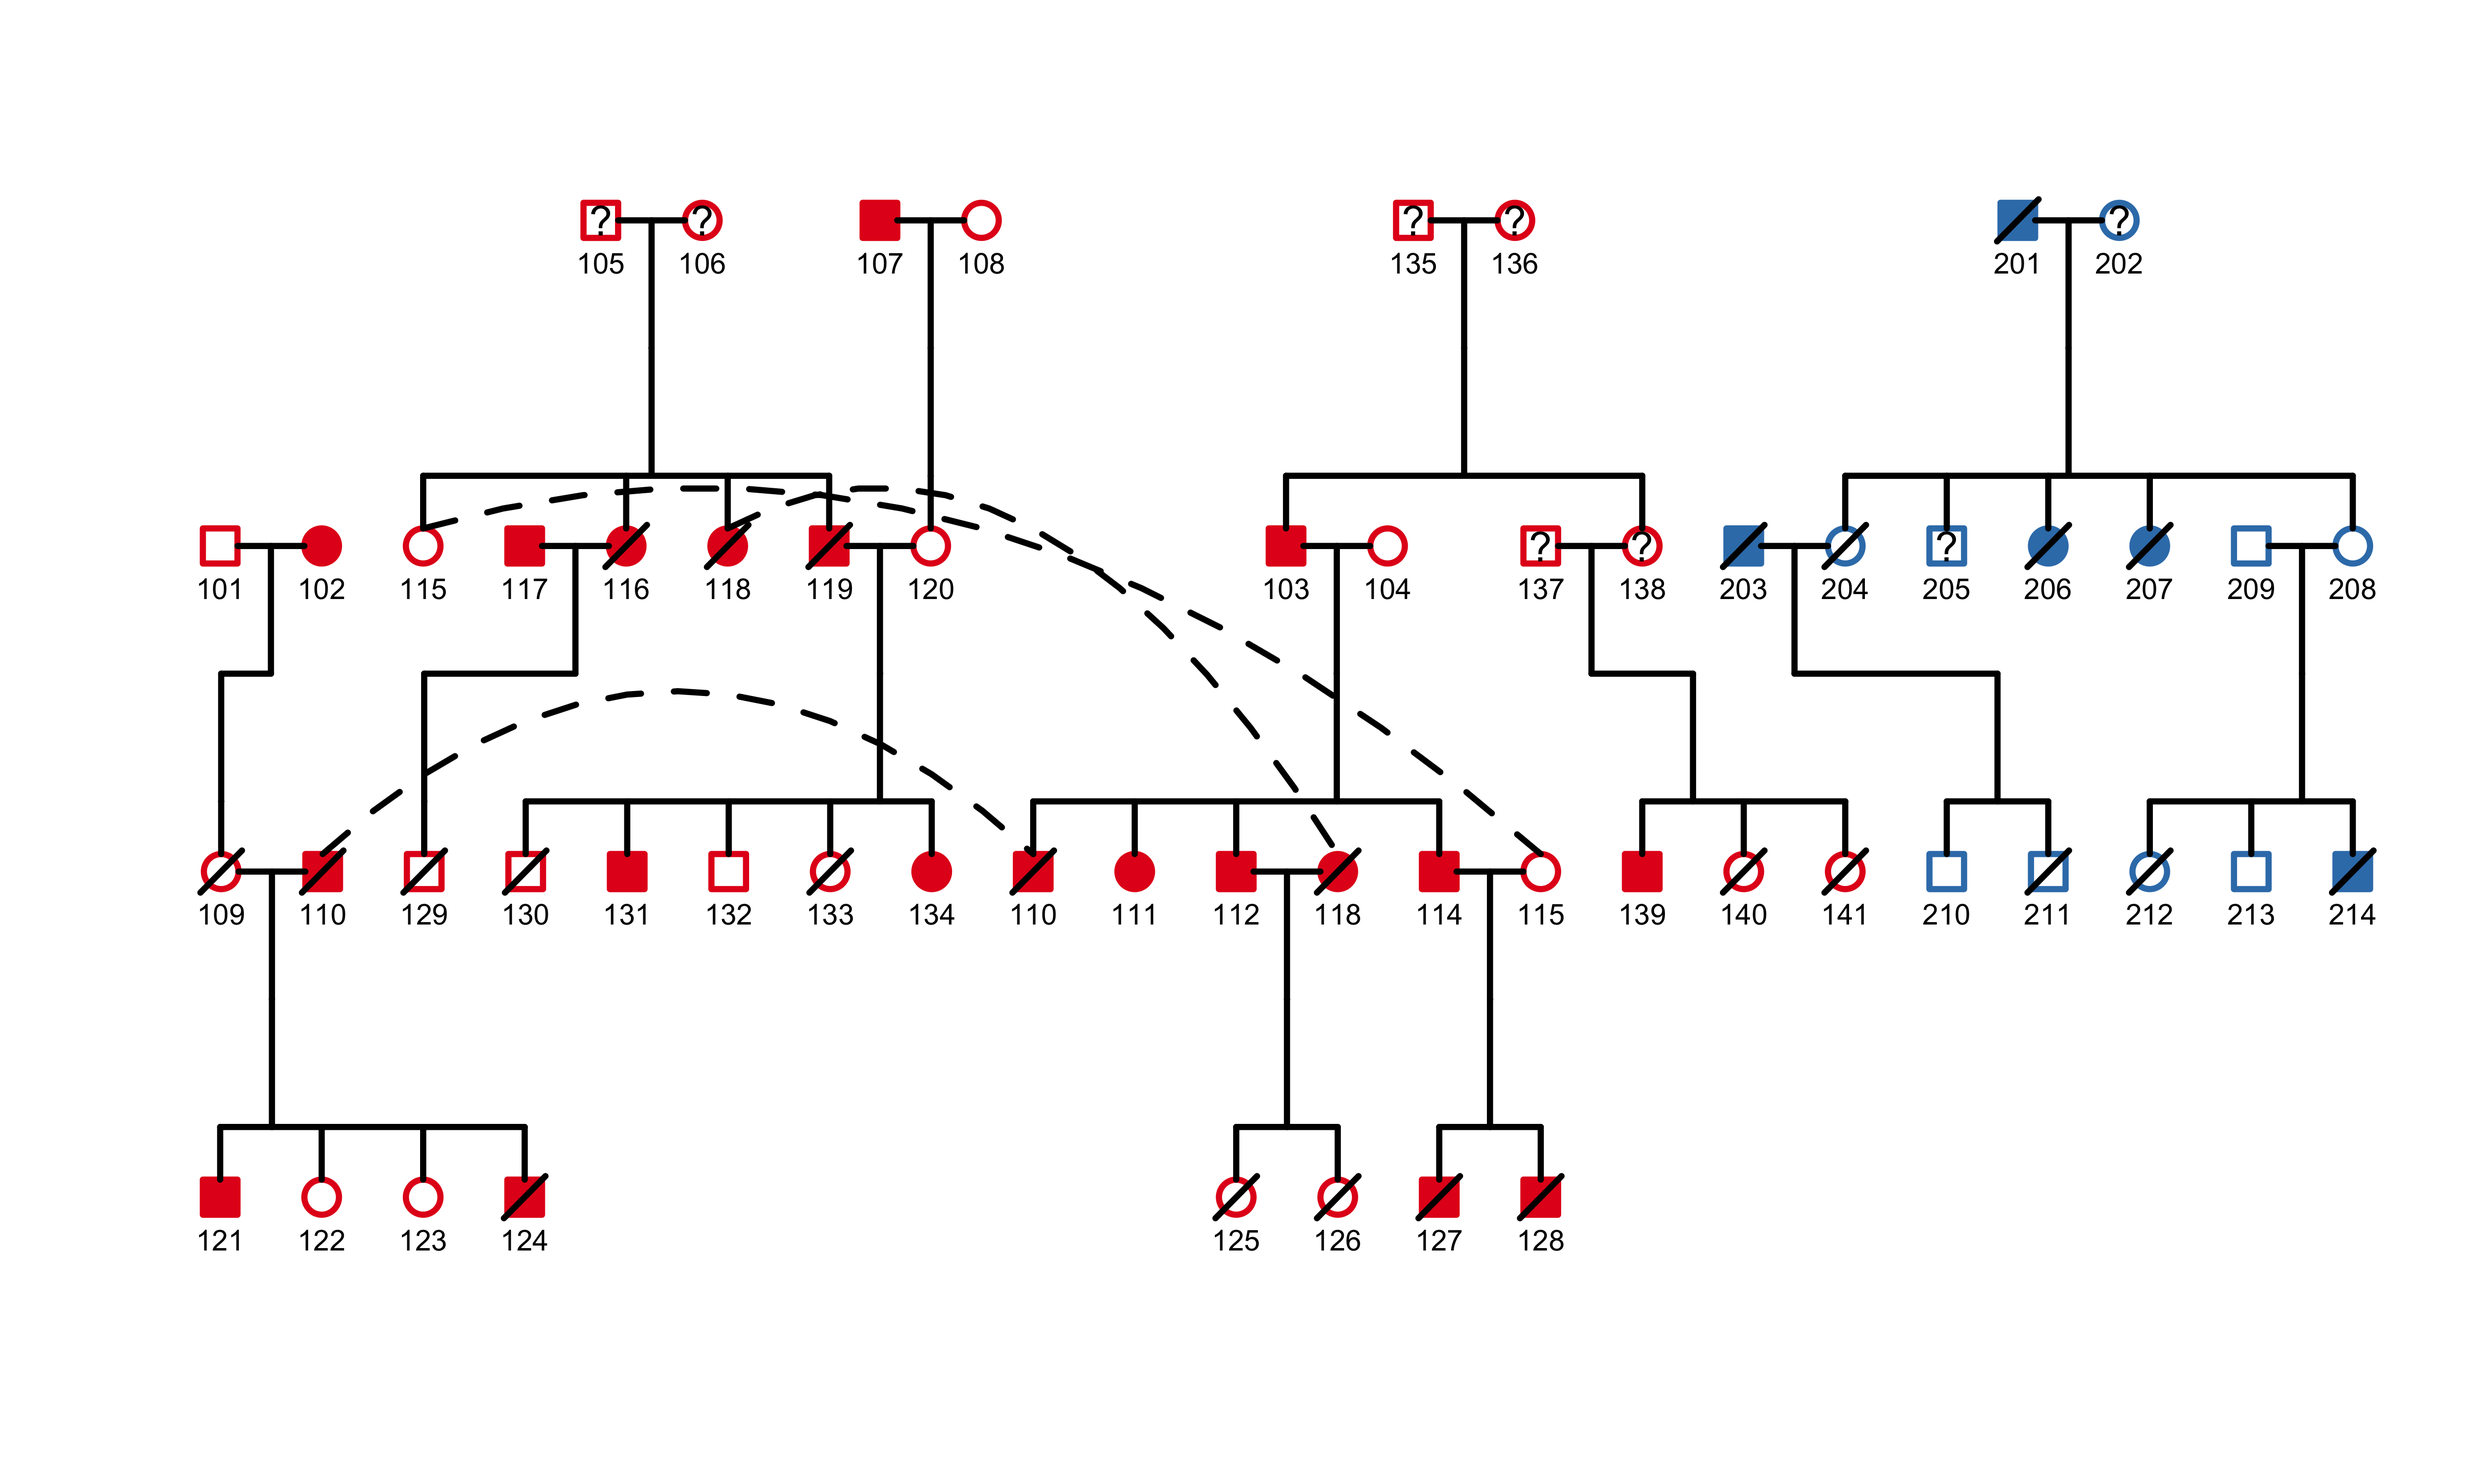
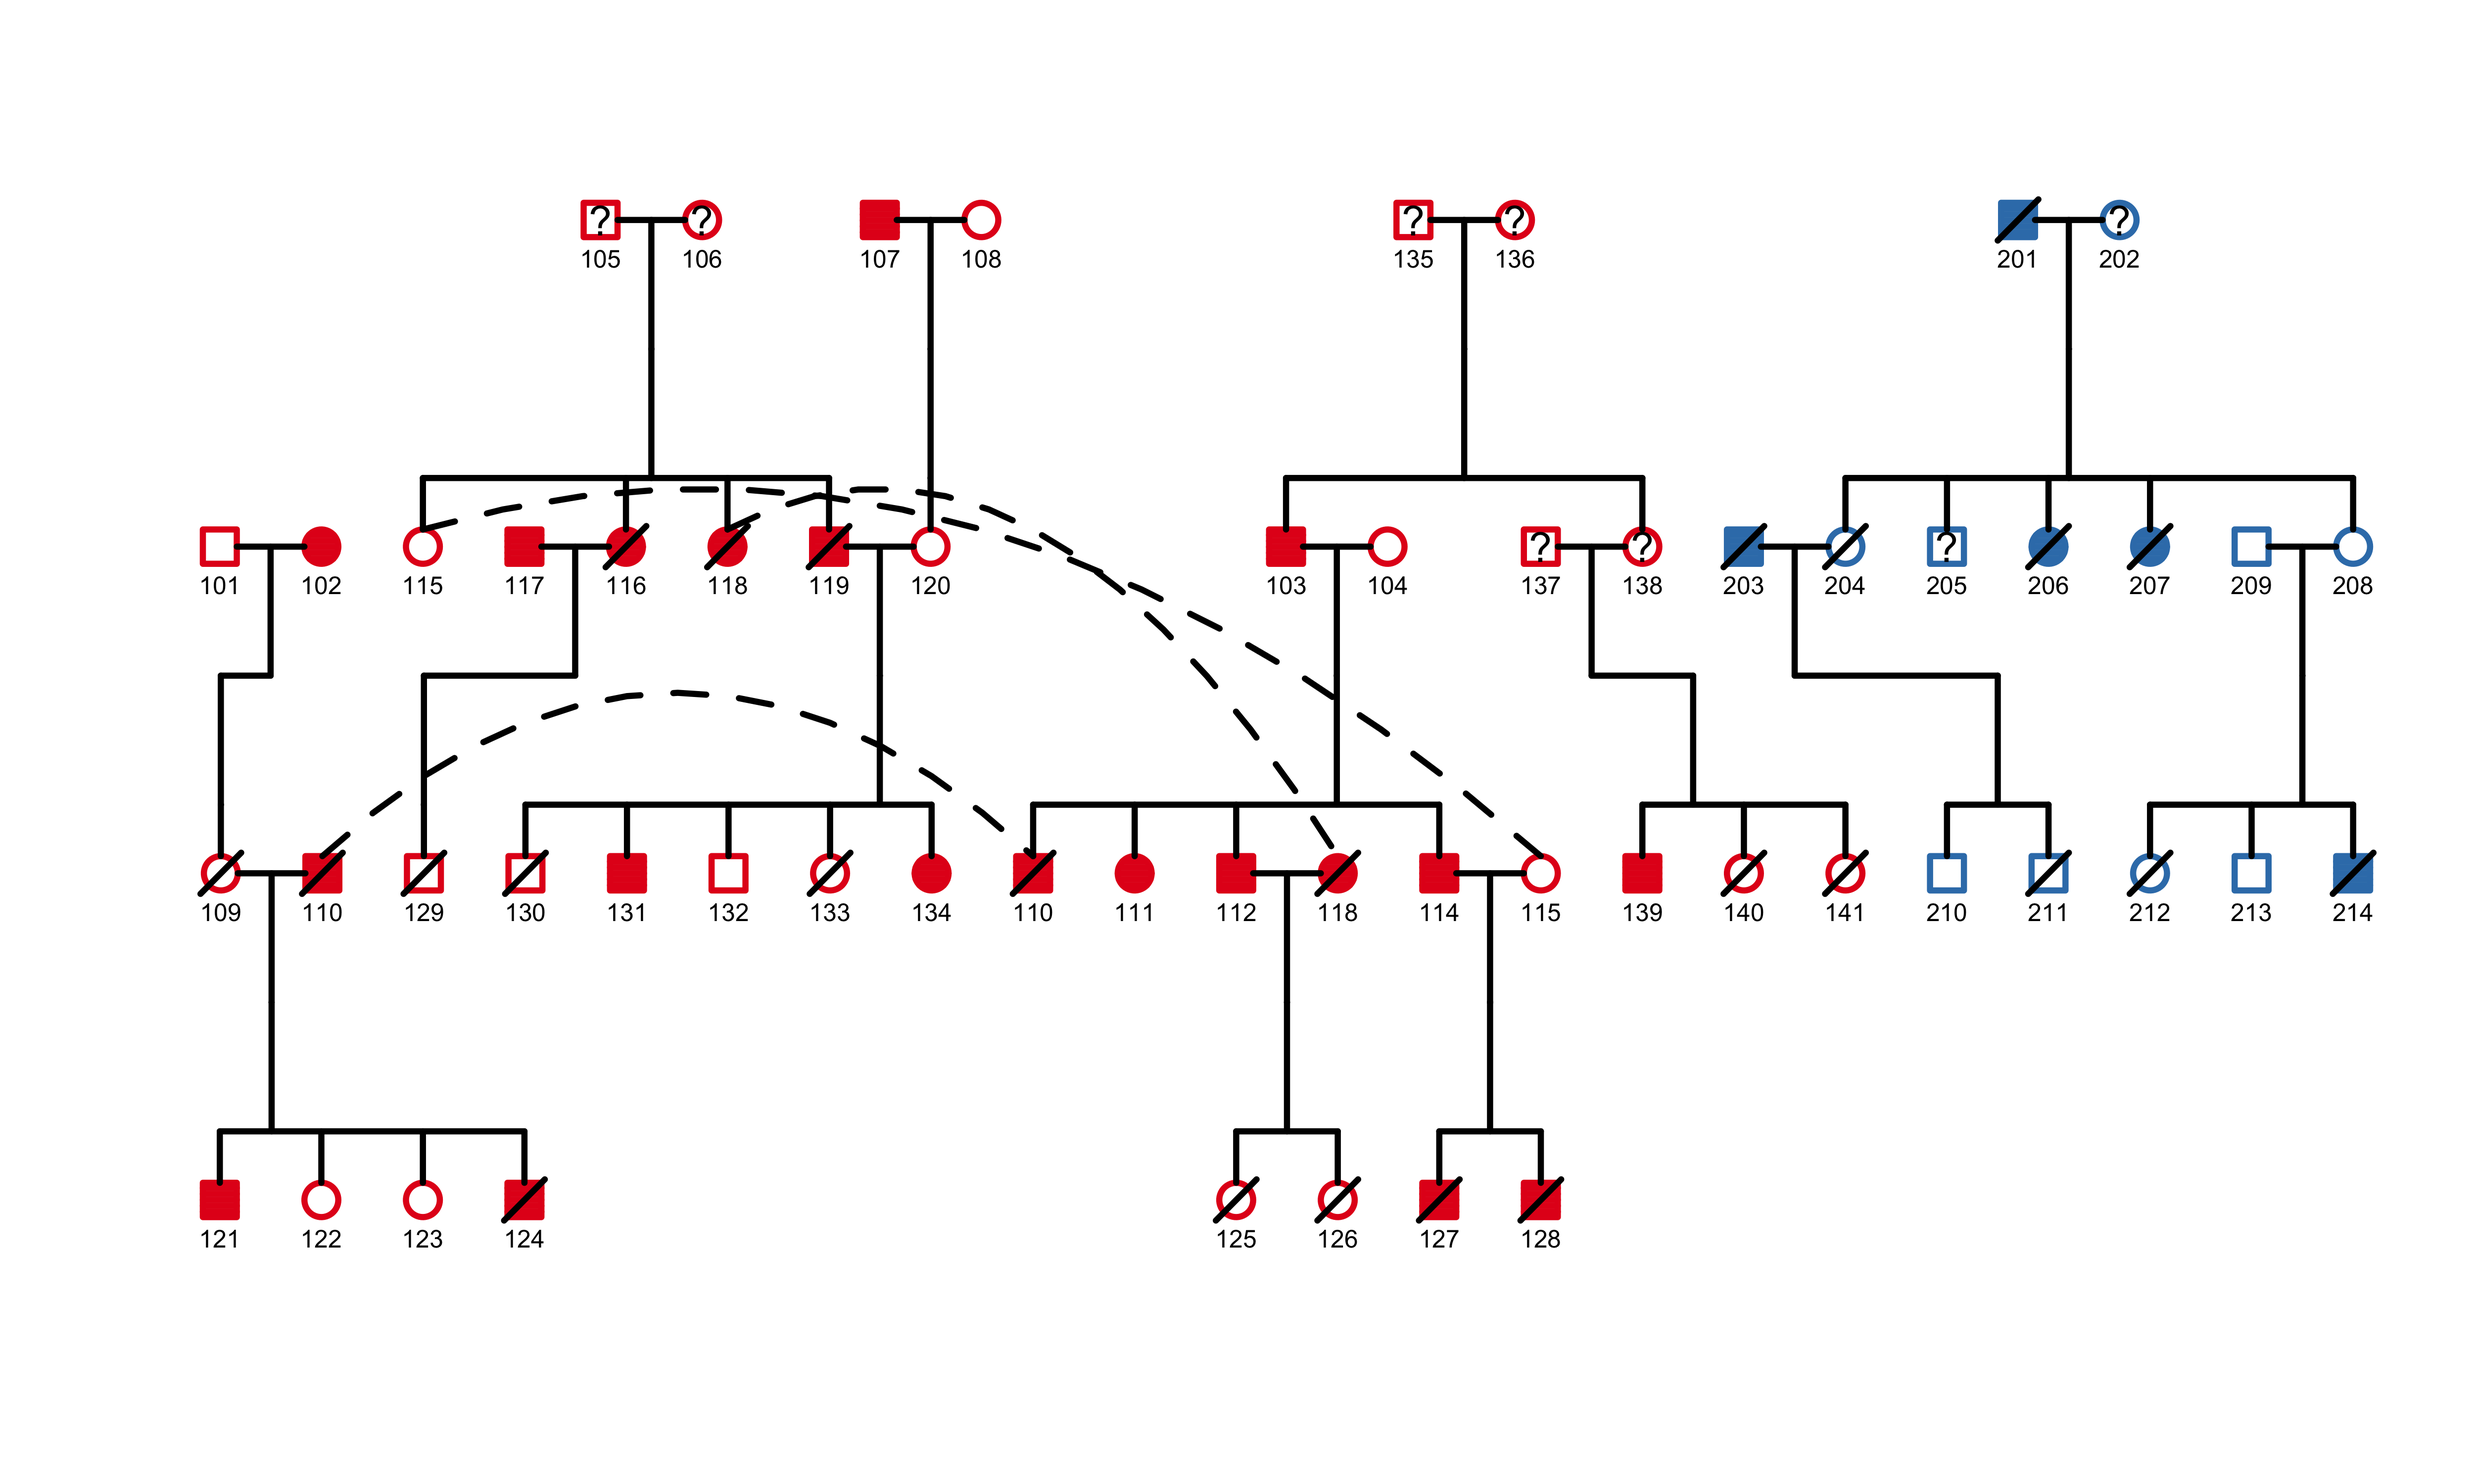
add handling of dead mice

diff --git a/README.md b/README.md
@@ -18,25 +18,35 @@ install.packages("optparse")
 
 ## Getting Started
 
+1.	**Test that this repository runs.** Use the included file `sample_ped_tab.csv`:
 
-1. Weave your old annotated data with new export from Transnetyx.
+	```bash
+	Rscript R/plot_family_tree.R -i data/sample_ped_tab.csv -p 1 -s
+	```
+
+2.	**Plot the family tree.** Use the "Export to Excel" function in the Dashboard/Mouse section of Transnetyx to obtain a `My_Mice.xlsx` file. Move it into `data`, then run the same script as above.	
+
+	```bash
+	Rscript R/plot_family_tree.R -i data/My_Mice.xlsx
+	```
+
+	This outputs two files, the pedegree into `figures` and a cleaned up csv file into `data/troubleshooting`. Open the cleaned up csv file, then update it with genotyping information and colors.
+	
+3. **Merge your annotated file with new data.** In the future, when you download a new `My_Mice.xlsx` file, to bring in your annotations from you old file, run the following script:
 
 	```bash
 	Rscript R/weave_data.R -i data/initial_data.csv -n data/My_Mice.xlsx
 	```
 
-2. Generate a pedigree figure. You can either use data directly from Transnetyx or the cleaned output of `weave_data.R`.
-	
-	```bash
-	Rscript R/plot_family_tree.R -i path/to/My_Mice.xlsx
-	```
+## Data Requirements
 
-3. Test on `sample_ped_tab.csv`. The input file is already the default option of the script.
+At minimum, your exported data needs the following columns: Sex, Mouse ID, Father ID, and Mother ID. The rest of the columns are optional. If you include the DOD column, the 'alive' field will automatically be computed for you.
 
-	```bash
-	Rscript R/plot_family_tree.R -i data/sample_ped_tab.csv -p 1
-	```
+I recommend setting a default view with the following columns: Use, Strain, Sex, Age, DOB, DOD, Mouse ID, Genotype, Labels, Cage ID, Notes, SystemId, Father ID, Mother ID, Rack, Position.
 
+## Contributing
+
+Please create a Github issue or reach out to me directly.
 
 ## Copyright
 
